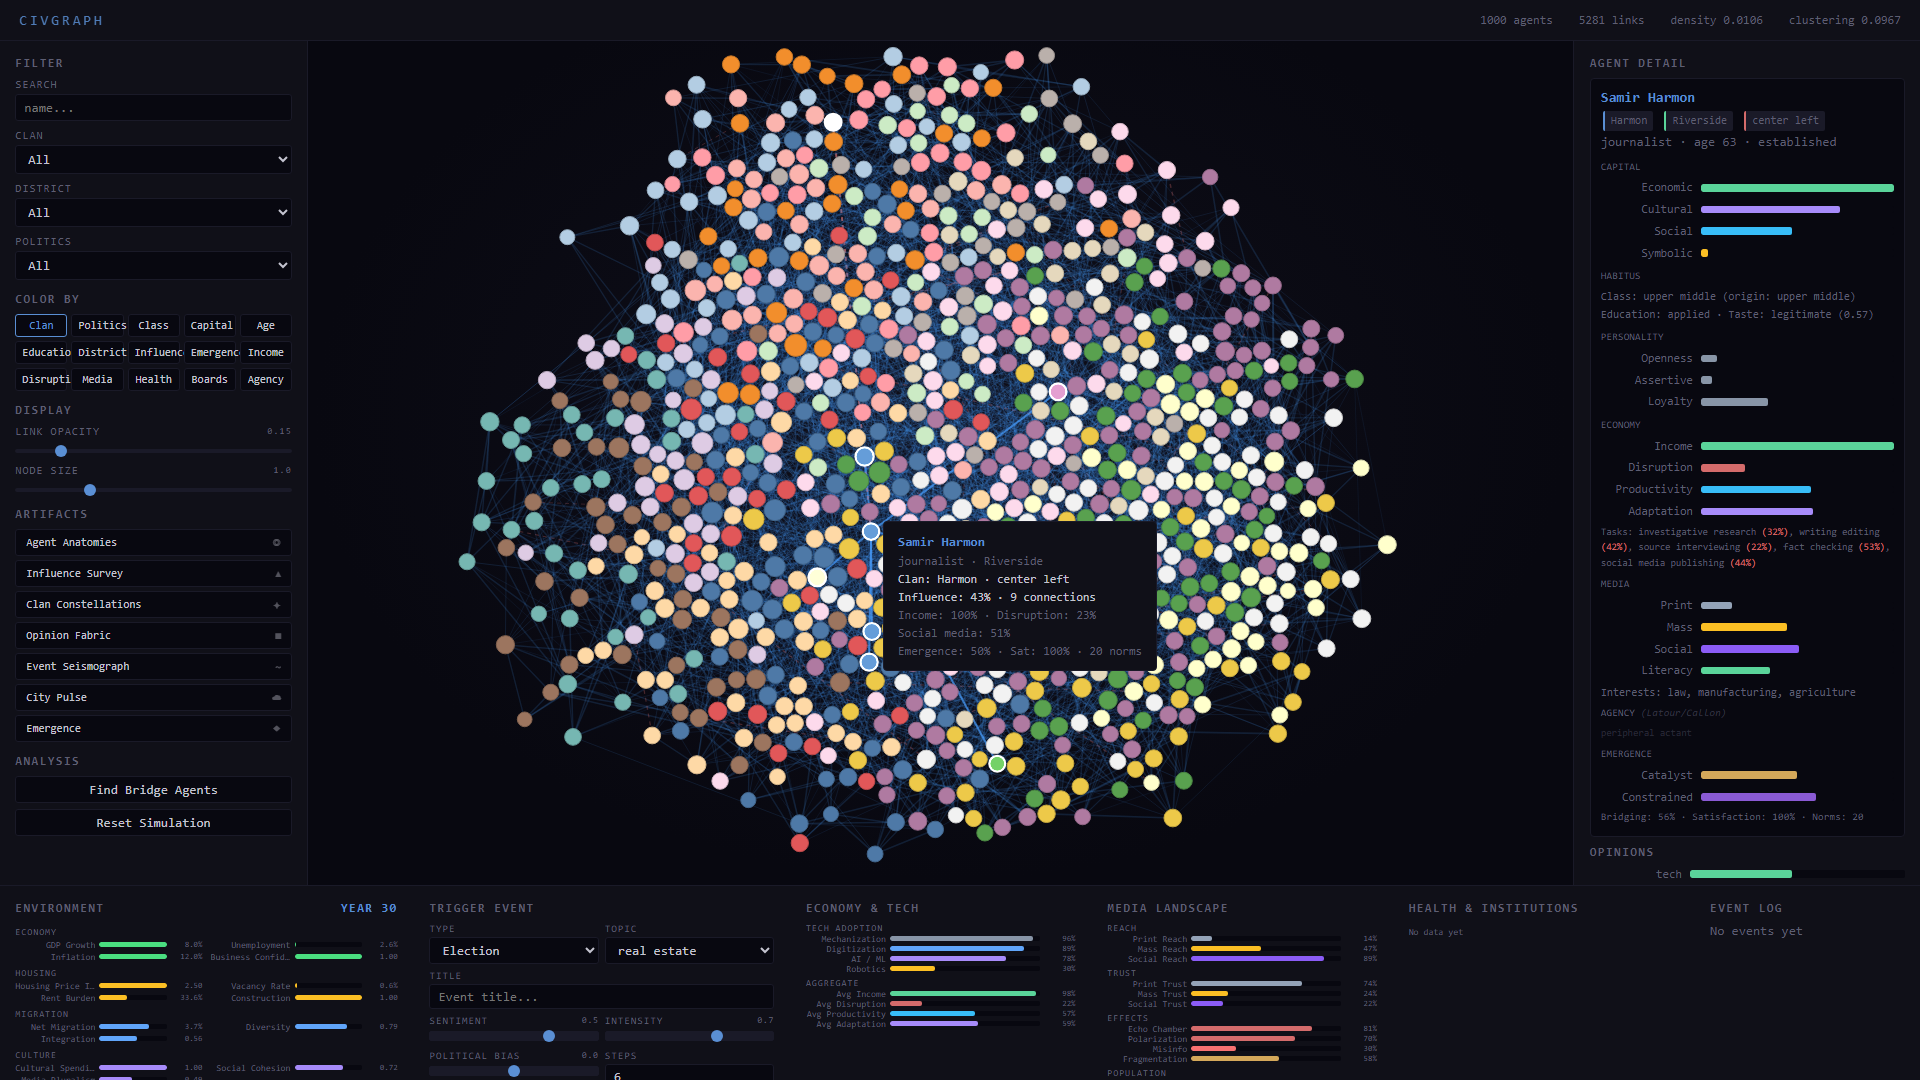
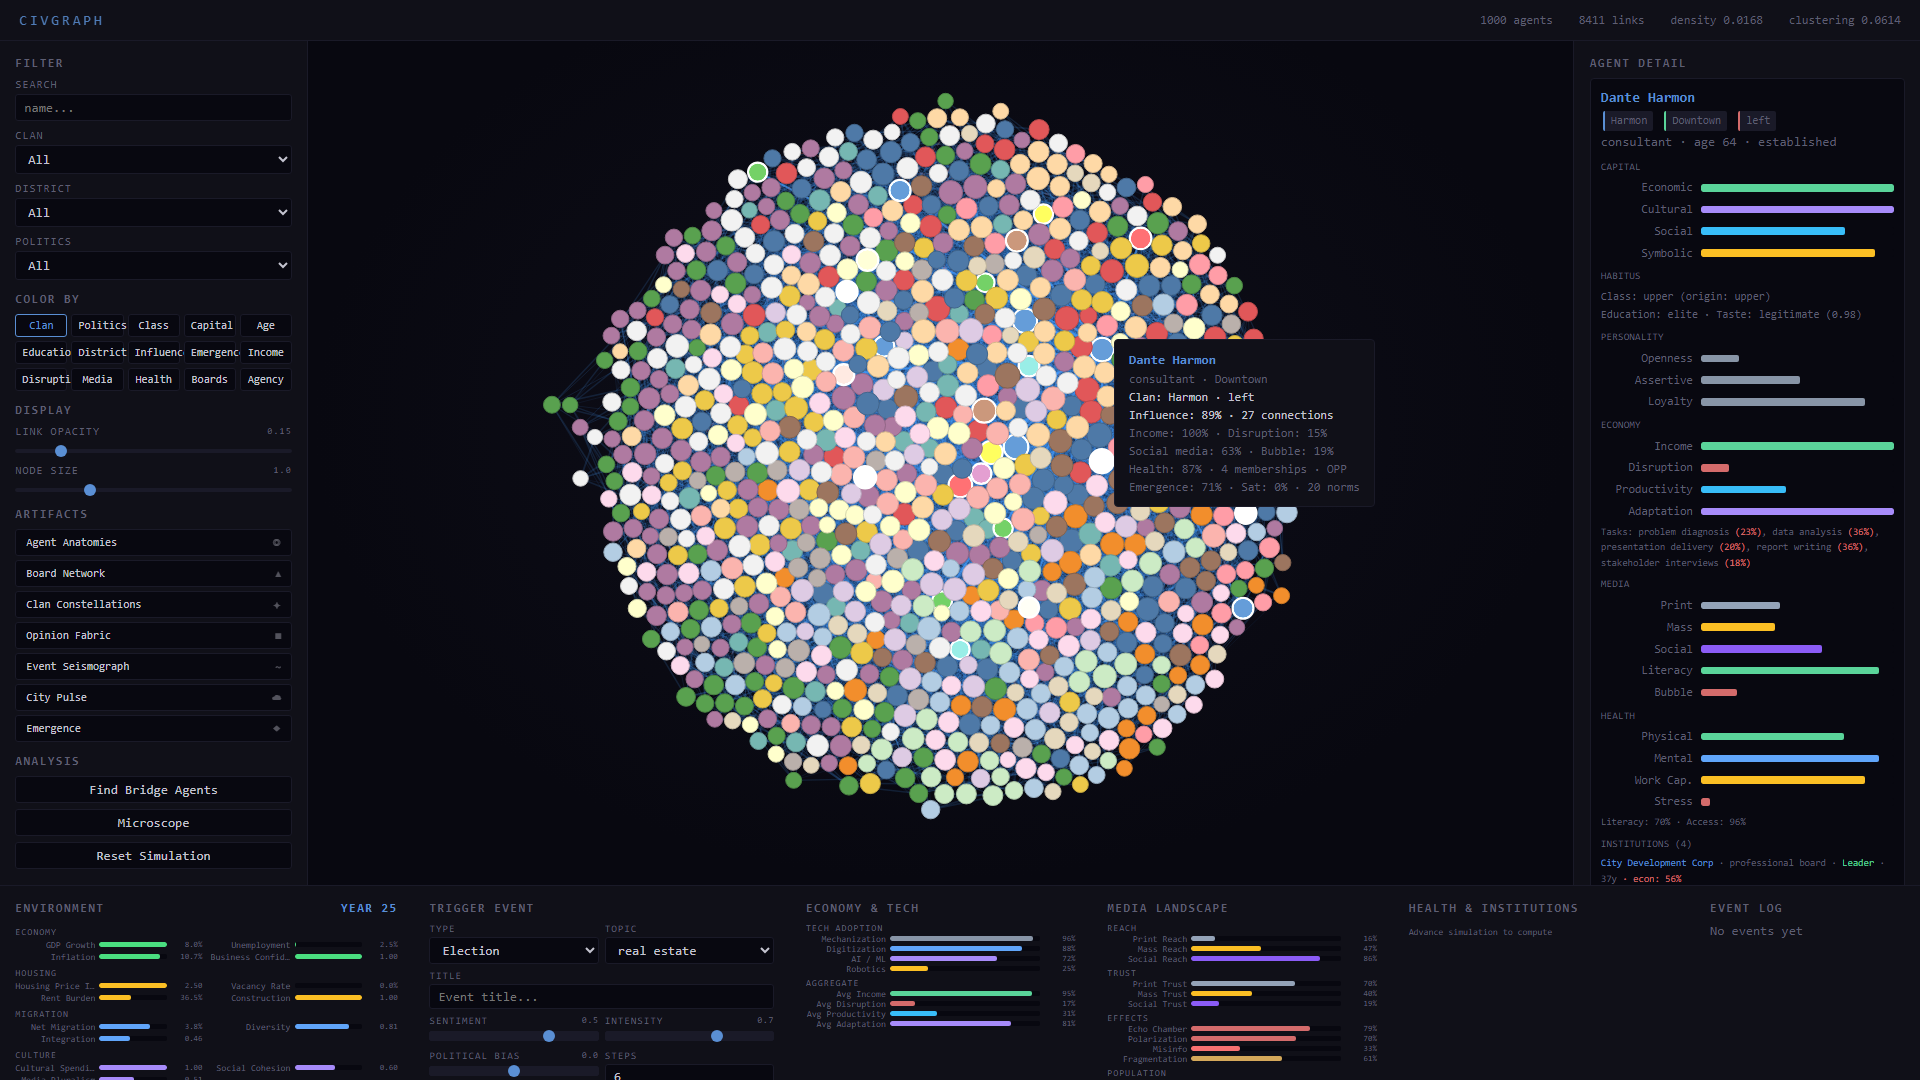
Full README update with persistence section, 25-year screenshots
- README: new "Persistence and Portability" section covering
  save/load (.civgraph.json.gz, 0.8 MB, 50ms load), CSV/GEXF/
  GraphML export for R/pandas/Gephi/Cytoscape/Neo4j, auto-save
- Architecture section: added persistence.py, transactions.py,
  screenshot.py to module list, updated endpoint count to 45+
- API table: added 8 persistence endpoints (save, load, list,
  delete, CSV, GEXF, GraphML, autosave)
- All screenshots recaptured after 25 simulated years with 5
  diverse events (tech boom, housing crisis, climate protest,
  board scandal, election) — richer data in all views
- Artifact screenshots show 30+ year history in City Pulse,
  multi-topic opinion fabric, populated emergence sparklines

diff --git a/README.md b/README.md
@@ -315,6 +315,29 @@ Seven domain strips (economy, housing, migration, culture, governance, health, i
 
 ---
 
+## Persistence and Portability
+
+CivGraph saves and exports full simulation state for resumption, sharing, and external analysis.
+
+### Save / Load
+
+Save the complete simulation to a gzip-compressed JSON file (`.civgraph.json.gz`, typically 0.8 MB). Every agent's capital, habitus, economy, media, health, institutions, opinions, and norms are preserved at full precision. Load reconstructs the entire simulation state in ~50ms — including all 26 environment indicators, emergence history, media landscape, technology adoption levels, and event log. Auto-save can be configured to save every N ticks (keeps last 3 autosaves).
+
+### Export for External Tools
+
+| Format | Size | Use with |
+|---|---|---|
+| **CSV ZIP** | ~560 KB | R, pandas, Excel, SPSS, Stata — 6 flat tables: `agents.csv` (~50 columns), `edges.csv`, `environment_history.csv`, `emergence_history.csv`, `events.csv`, `memberships.csv` |
+| **GEXF** | ~3.1 MB | **Gephi** (native format) — all agent attributes as node properties for filtering, coloring, sizing |
+| **GraphML** | ~1.6 MB | **Gephi**, **yEd**, **Cytoscape**, **Neo4j**, **igraph** — universal graph exchange |
+| **JSON** | ~0.8 MB | Any programming language, **D3.js**, **Observable**, **Jupyter** |
+
+### Starting Fresh
+
+`POST /api/reset?seed=N` generates a new city from scratch with a different random seed. Previous saves are preserved — you can explore multiple seeds and load back to any saved state.
+
+---
+
 ## Architecture
 
 ```
@@ -348,9 +371,14 @@ model.py         -- Agent dataclass, city generator (1,000 agents,
                     9 edge types), D3 export.
 events.py        -- Capital-aware BFS propagation, media amplification,
                     coalition detection.
-server.py        -- FastAPI REST + WebSocket, 35+ endpoints.
+transactions.py  -- Atomic transaction ledger for Microscope view.
+persistence.py   -- Save/load (gzip JSON), CSV/GEXF/GraphML export,
+                    auto-save, Gephi-compatible graph export.
+server.py        -- FastAPI REST + WebSocket, 45+ endpoints.
 static/          -- D3.js frontend (15 color modes, 7 pen-plotter
-                    artifacts, 6-panel dashboard, A2 print export).
+                    artifacts, Microscope, 6-panel dashboard).
+screenshot.py    -- Playwright screenshot tool (--artifacts-only,
+                    --port, --no-tick).
 ```
 
 ## API
@@ -376,4 +404,13 @@ static/          -- D3.js frontend (15 color modes, 7 pen-plotter
 | `GET /api/sts` | Full STS snapshot: actants, OPPs, performativity, black-boxing, alignment |
 | `GET /api/sts/passage-points` | Top 20 obligatory passage points (Callon) |
 | `GET /api/sts/network-capital` | Network programmers and switchers (Castells) |
+| `GET /api/transactions` | Atomic transaction ledger from last tick |
+| `POST /api/save` | Save simulation state to disk (.civgraph.json.gz) |
+| `GET /api/saves` | List available save files with metadata |
+| `POST /api/load` | Load simulation from save file |
+| `DELETE /api/saves/{f}` | Delete a save file |
+| `GET /api/export/csv` | Download CSV ZIP (agents, edges, history, memberships) |
+| `GET /api/export/gexf` | Download GEXF (Gephi native format) |
+| `GET /api/export/graphml` | Download GraphML (universal graph exchange) |
+| `GET/POST /api/autosave` | Configure auto-save (enabled, interval) |
 | `WS /ws` | WebSocket for live propagation animation |
